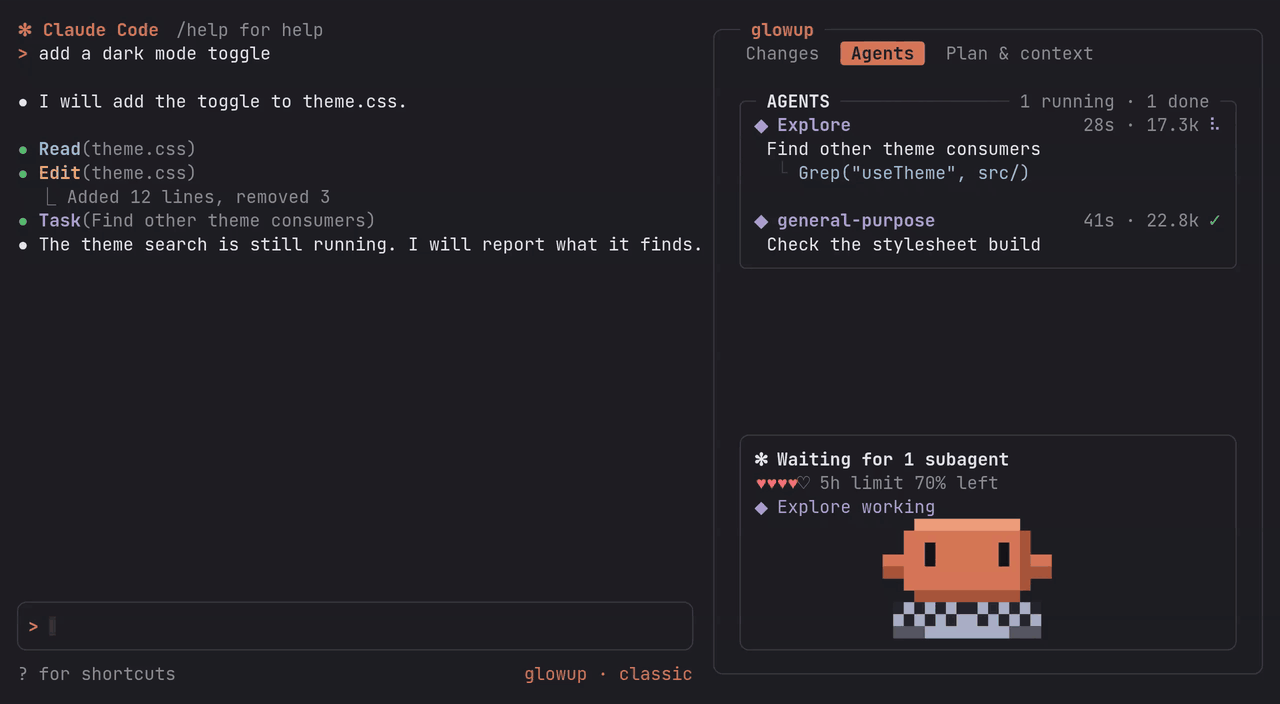
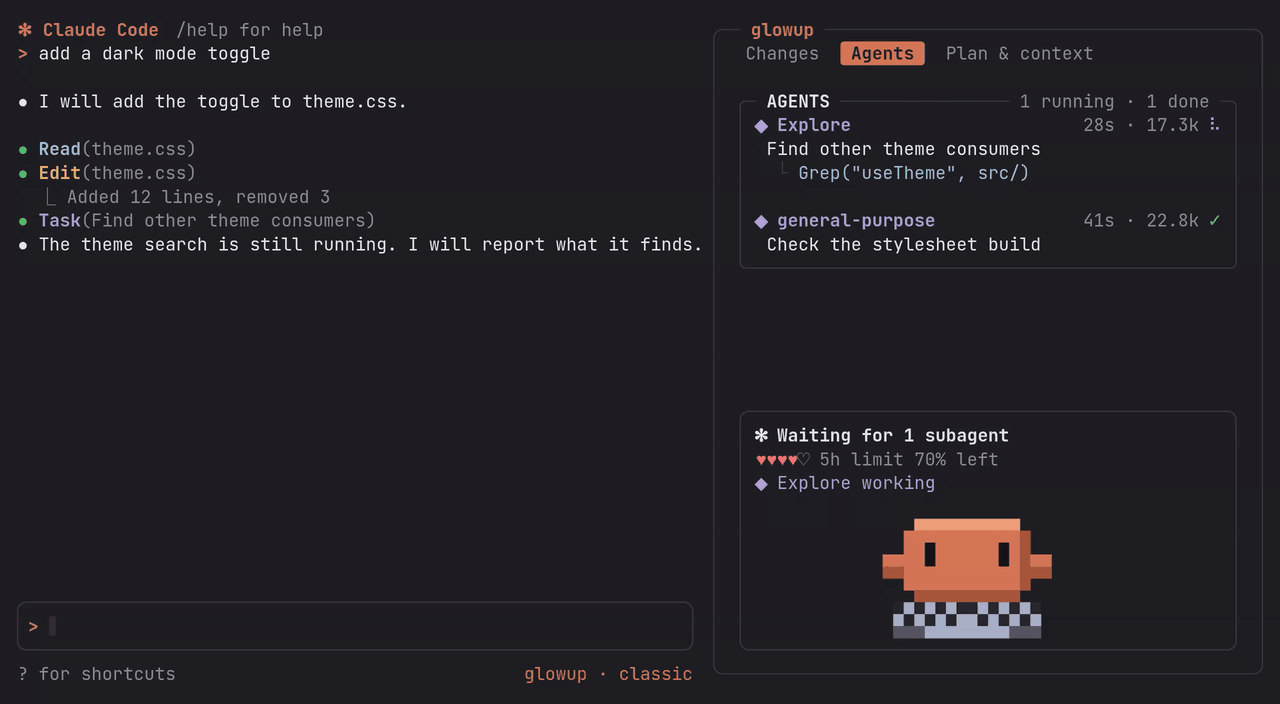
fix(demo): the status box grows with its status rows so Clawd is never drawn over the last one

Changed region(s): [[0.5938, 0.5938, 0.7812, 0.75]]

diff --git a/demo/src/screen.tsx b/demo/src/screen.tsx
@@ -131,12 +131,15 @@ export class Claude {
       tabs(x0, 1);
       // The status box grows upward while Clawd's bubble is up, as the footer does in hooks/pane.tsx,
       // and the tab keeps the rows above it. Only the Changes tab is on screen while he talks.
-      const top = this.bubbling ? 13 : 17;
+      // Each status row past the usual two lifts the box by a row (footerRows counts them), so the
+      // sprite, which stays put, is never drawn over the last one.
+      const status = statusRows(this.model, look, look.hp, PANE_W - 8);
+      const top = (this.bubbling ? 13 : 17) - Math.max(0, status.length - 2);
       this.statusBox?.y((top + 0.5) * LH).height((26 - top) * LH);
       tabRows(this.model, this.tab, look, PANE_W - 4, false)
         .slice(0, top - 3)
         .forEach((r, i) => drawSegs(T, this.dyn, x0, 3 + i, r));
-      statusRows(this.model, look, look.hp, PANE_W - 8).forEach((r, i) => drawSegs(T, this.dyn, x0 + 2, top + 1 + i, r));
+      status.forEach((r, i) => drawSegs(T, this.dyn, x0 + 2, top + 1 + i, r));
       return;
     }
     tabs(1, 14);
